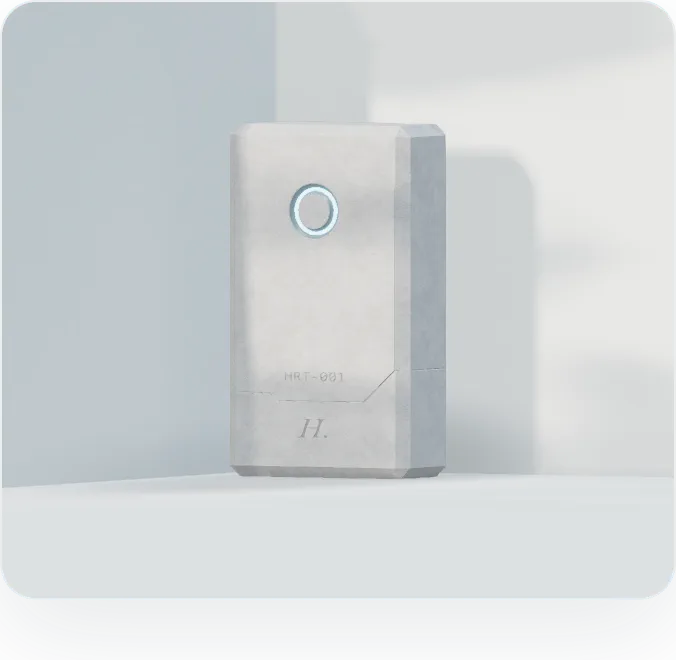
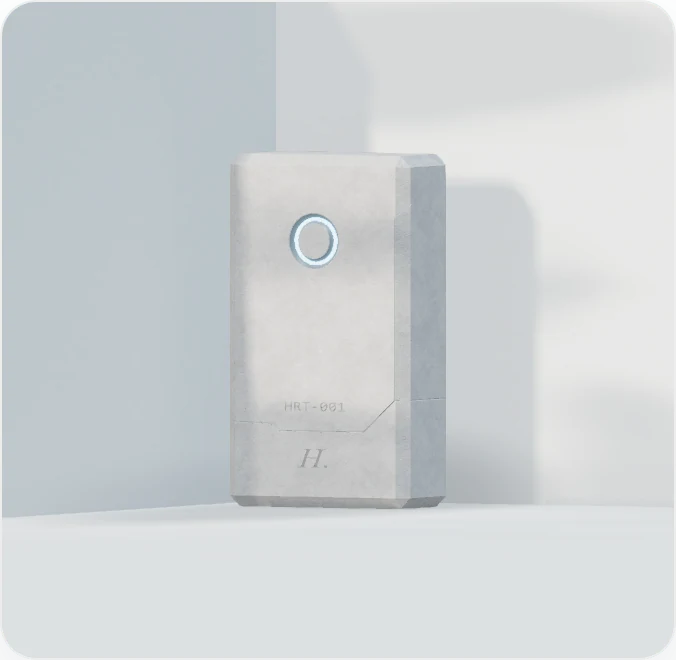
fix(website): the demo's device card shows its room, as the app does — and the posters, the README hero and the social card are recaptured, smaller
The owner: "in our repo's images and the website's images, the device
card lacks the background? only has the device itself."

- The demo's scene stub reported "no scene", so the card fell back to its
  flat renders: the device alone, with no room. It now shows a PICTURE of
  the scene (no three.js on the site, as before): the night render in the
  dark theme, the visitor's hour's in the light one, noon for the
  posters. The demo bridge offers the scene surface, and the GPU probe is
  stubbed too, since a picture needs none.
- The four scene pictures are re-rendered. In the film kit's 676 px frame
  the app's narrow-window rule made the card 300 px tall instead of 330,
  so every picture stopped 30 px short of the card; the kit's card height
  is pinned now, and its props files are kept for the next render.
  7.6–10 KB WebP each, as before.
- The four narrow-screen posters are recaptured from the built demo
  (1440x900 at 2x, the showcase opened, her closing line settled):
  WebP 65–70 KB each, as before. Their PNG masters, which the public
  README links as its hero, are now 1640 wide like the WebPs, not 2880:
  392–446 KB, down from 478–676 KB.
- og.jpg, still showing August's app and the flat device, is regenerated
  from the new poster: 1200x750, 63 KB.

diff --git a/website/src/demo-device-scene.tsx b/website/src/demo-device-scene.tsx
@@ -1,22 +1,56 @@
 /**
- * The site's stand-in for the 3D device scene (2026-09-10, owner: "use flat
- * device images instead of 3D models"). The demo bridge has no
- * `getDeviceScene` surface, so the real `DeviceCard` never mounts the scene
- * here — but its import alone made Vite emit the three.js scene chunk
- * (1.1 MB) and the Basis transcoder (585 KB) into every deploy. Aliased over
+ * The site's stand-in for the 3D device scene. No 3D on the site (owner
+ * 2026-09-10: "use flat device images instead of 3D models"): aliased over
  * `device-scene/DeviceScene.js` in vite.config.ts, this module imports
- * nothing heavy; if the card ever did mount it, it reports "no scene" and
- * the card keeps its flat renders, exactly as a machine without a GPU
- * path does in the app.
+ * nothing heavy — the real one would emit the three.js scene chunk (1.1 MB)
+ * and the Basis transcoder (585 KB) into every deploy.
+ *
+ * It shows a PICTURE of the scene: one of the four renders the desk section
+ * already carries (src/assets/device-*.webp, the real scene through the
+ * release film's driven mode), the night one in the dark theme and the
+ * visitor's hour's in the light one. Until 2026-10-14 it reported "no
+ * scene" and the card fell back to its flat renders — the device alone,
+ * with no room around it, which is not how the app looks wherever a GPU
+ * draws the scene (owner: "the device card lacks the background").
  */
 
 import type { DeviceSceneProps } from "@gui/components/UtilityRail/device-scene/DeviceScene";
-import { useEffect } from "react";
+import { useState } from "react";
+import deviceDusk from "./assets/device-dusk.webp";
+import deviceMorning from "./assets/device-morning.webp";
+import deviceNight from "./assets/device-night.webp";
+import deviceNoon from "./assets/device-noon.webp";
+
+/** The render for this theme and hour: 7:30, 12:30 and 18:30 in the light
+ *  theme, 22:30 in the dark one — the hours the renders were made at. */
+function stillFor(theme: DeviceSceneProps["theme"], hour: number): string {
+  if (theme === "dark") return deviceNight;
+  if (hour < 10) return deviceMorning;
+  if (hour < 16) return deviceNoon;
+  return deviceDusk;
+}
 
 export function DeviceScene(props: DeviceSceneProps): JSX.Element | null {
-  const { onLive } = props;
-  useEffect(() => {
-    onLive(false);
-  }, [onLive]);
-  return null;
+  const { onLive, theme } = props;
+  // The posters (`?poster=1`) are one frame whenever they are shot: noon.
+  const [hour] = useState(() =>
+    new URLSearchParams(window.location.search).has("poster")
+      ? 12
+      : new Date().getHours(),
+  );
+  const src = stillFor(theme, hour);
+  // Live once the picture is drawn; one that will not load leaves the card
+  // on its flat renders, as a scene that cannot start does in the app.
+  return (
+    <img
+      className="device-scene-canvas"
+      src={src}
+      alt=""
+      aria-hidden="true"
+      decoding="async"
+      style={{ objectFit: "cover" }}
+      onLoad={() => onLive(true)}
+      onError={() => onLive(false)}
+    />
+  );
 }

diff --git a/website/vite.config.ts b/website/vite.config.ts
@@ -68,14 +68,19 @@ export default defineConfig({
           "src/assets/herta-station-icon-night.webp",
         ),
       },
-      // No 3D on the site (owner 2026-09-10): the demo bridge has no scene
-      // surface, so the card never mounts the scene — but its import alone
+      // No 3D on the site (owner 2026-09-10): the real scene's import alone
       // emitted the three.js chunk and the Basis transcoder (~1.7 MB) into
-      // every deploy. A stub takes the import; the site shows PICTURES of
-      // the scene instead (src/assets/device-*.webp).
+      // every deploy. A stub takes the import and shows a PICTURE of the
+      // scene in the card (src/assets/device-*.webp, owner 2026-10-14: the
+      // flat device alone "lacks the background"); its GPU probe is stubbed
+      // too, since a picture needs none.
       {
         find: /^.*\/device-scene\/DeviceScene\.js$/,
         replacement: resolve(__dirname, "src/demo-device-scene.tsx"),
+      },
+      {
+        find: /^.*\/device-scene\/capability\.js$/,
+        replacement: resolve(__dirname, "src/demo-device-capability.ts"),
       },
       {
         find: "@gui",

diff --git a/website/src/demo-device-capability.ts b/website/src/demo-device-capability.ts
@@ -1,0 +1,10 @@
+/**
+ * The site's stand-in for the device scene's GPU probe (2026-10-14). The
+ * site's scene is a picture (src/demo-device-scene.tsx), which any browser
+ * can show: the probe would only make a WebGL context for nothing, and on a
+ * software renderer or a remote desktop send the visitor the flat art.
+ * Aliased over `device-scene/capability.js` in vite.config.ts.
+ */
+export function detectDeviceScenePath(): Promise<boolean> {
+  return Promise.resolve(true);
+}

diff --git a/website/src/demo-bridge.ts b/website/src/demo-bridge.ts
@@ -1294,6 +1294,10 @@ export function createDemoBridge(
 
     maybePlayEasterEgg: async () => {},
 
+    // The device card shows its scene — a picture of it on the site
+    // (src/demo-device-scene.tsx), not the flat device alone.
+    getDeviceScene: async () => true,
+
     listSessions: async () => {
       const list: SessionMetadata[] = [];
       if (liveCreated) {
